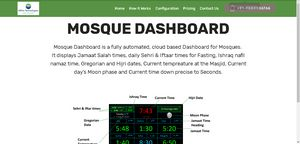
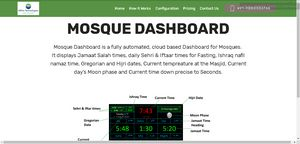
Bug fix

diff --git a/mosquedashboard/assets/mobirise/css/mbr-additional.css b/mosquedashboard/assets/mobirise/css/mbr-additional.css
@@ -908,7 +908,7 @@ section.lazy-placeholder:after {
   width: 30px;
   height: 2px;
   border-right: 5px;
-  background-color: #767676;
+  background-color: #ffffff;
 }
 .cid-s6HSgn0i3a button.navbar-toggler .hamburger span:nth-child(1) {
   top: 0;
@@ -1313,7 +1313,7 @@ section.lazy-placeholder:after {
   width: 30px;
   height: 2px;
   border-right: 5px;
-  background-color: #767676;
+  background-color: #ffffff;
 }
 .cid-s6HSgn0i3a button.navbar-toggler .hamburger span:nth-child(1) {
   top: 0;
@@ -1820,7 +1820,7 @@ section.lazy-placeholder:after {
   width: 30px;
   height: 2px;
   border-right: 5px;
-  background-color: #767676;
+  background-color: #ffffff;
 }
 .cid-s6HSgn0i3a button.navbar-toggler .hamburger span:nth-child(1) {
   top: 0;
@@ -2251,7 +2251,7 @@ section.lazy-placeholder:after {
   width: 30px;
   height: 2px;
   border-right: 5px;
-  background-color: #767676;
+  background-color: #ffffff;
 }
 .cid-s6HSgn0i3a button.navbar-toggler .hamburger span:nth-child(1) {
   top: 0;
@@ -2969,7 +2969,7 @@ section.lazy-placeholder:after {
   width: 30px;
   height: 2px;
   border-right: 5px;
-  background-color: #767676;
+  background-color: #ffffff;
 }
 .cid-s6HSgn0i3a button.navbar-toggler .hamburger span:nth-child(1) {
   top: 0;

diff --git a/mosquedashboard/about-us.html b/mosquedashboard/about-us.html
@@ -71,7 +71,7 @@
     </nav>
 </section>
 
-<section class="engine"><a href="https://mobirise.info/j">website templates</a></section><section class="carousel slide cid-s6IKzwSc4f" data-interval="false" id="slider2-j">
+<section class="engine"><a href="https://mobirise.info/o">free portfolio site templates</a></section><section class="carousel slide cid-s6IKzwSc4f" data-interval="false" id="slider2-j">
 
     
     <div class="container content-slider">

diff --git a/mosquedashboard/pricing.html b/mosquedashboard/pricing.html
@@ -71,7 +71,7 @@
     </nav>
 </section>
 
-<section class="engine"><a href="https://mobirise.info/e">how to make your own website</a></section><section class="header12 cid-s6IlGzlFxl mbr-fullscreen" id="header12-d">
+<section class="engine"><a href="https://mobirise.info/z">best free website templates</a></section><section class="header12 cid-s6IlGzlFxl mbr-fullscreen" id="header12-d">
 
     
 

diff --git a/mosquedashboard/how-it-works.html b/mosquedashboard/how-it-works.html
@@ -72,7 +72,7 @@
     </nav>
 </section>
 
-<section class="engine"><a href="https://mobirise.info/d">web maker</a></section><section class="features12 cid-s6HXwPgZi9" id="features12-a">
+<section class="engine"><a href="https://mobirise.info/b">how to create your own website for free</a></section><section class="features12 cid-s6HXwPgZi9" id="features12-a">
     
     
 

diff --git a/mosquedashboard/configuration.html b/mosquedashboard/configuration.html
@@ -71,7 +71,7 @@
     </nav>
 </section>
 
-<section class="engine"><a href="https://mobirise.info/j">website templates</a></section><section class="features2 cid-s6I7jvugT5" id="features2-c">
+<section class="engine"><a href="https://mobirise.info/z">best css templates</a></section><section class="features2 cid-s6I7jvugT5" id="features2-c">
 
     
 

diff --git a/mosquedashboard/index.html b/mosquedashboard/index.html
@@ -71,7 +71,7 @@
     </nav>
 </section>
 
-<section class="engine"><a href="https://mobirise.info/a">online site builder</a></section><section class="header4 cid-s6HPYc8WTB" id="header4-3">
+<section class="engine"><a href="https://mobirise.info/d">free web maker</a></section><section class="header4 cid-s6HPYc8WTB" id="header4-3">
 
     
 
